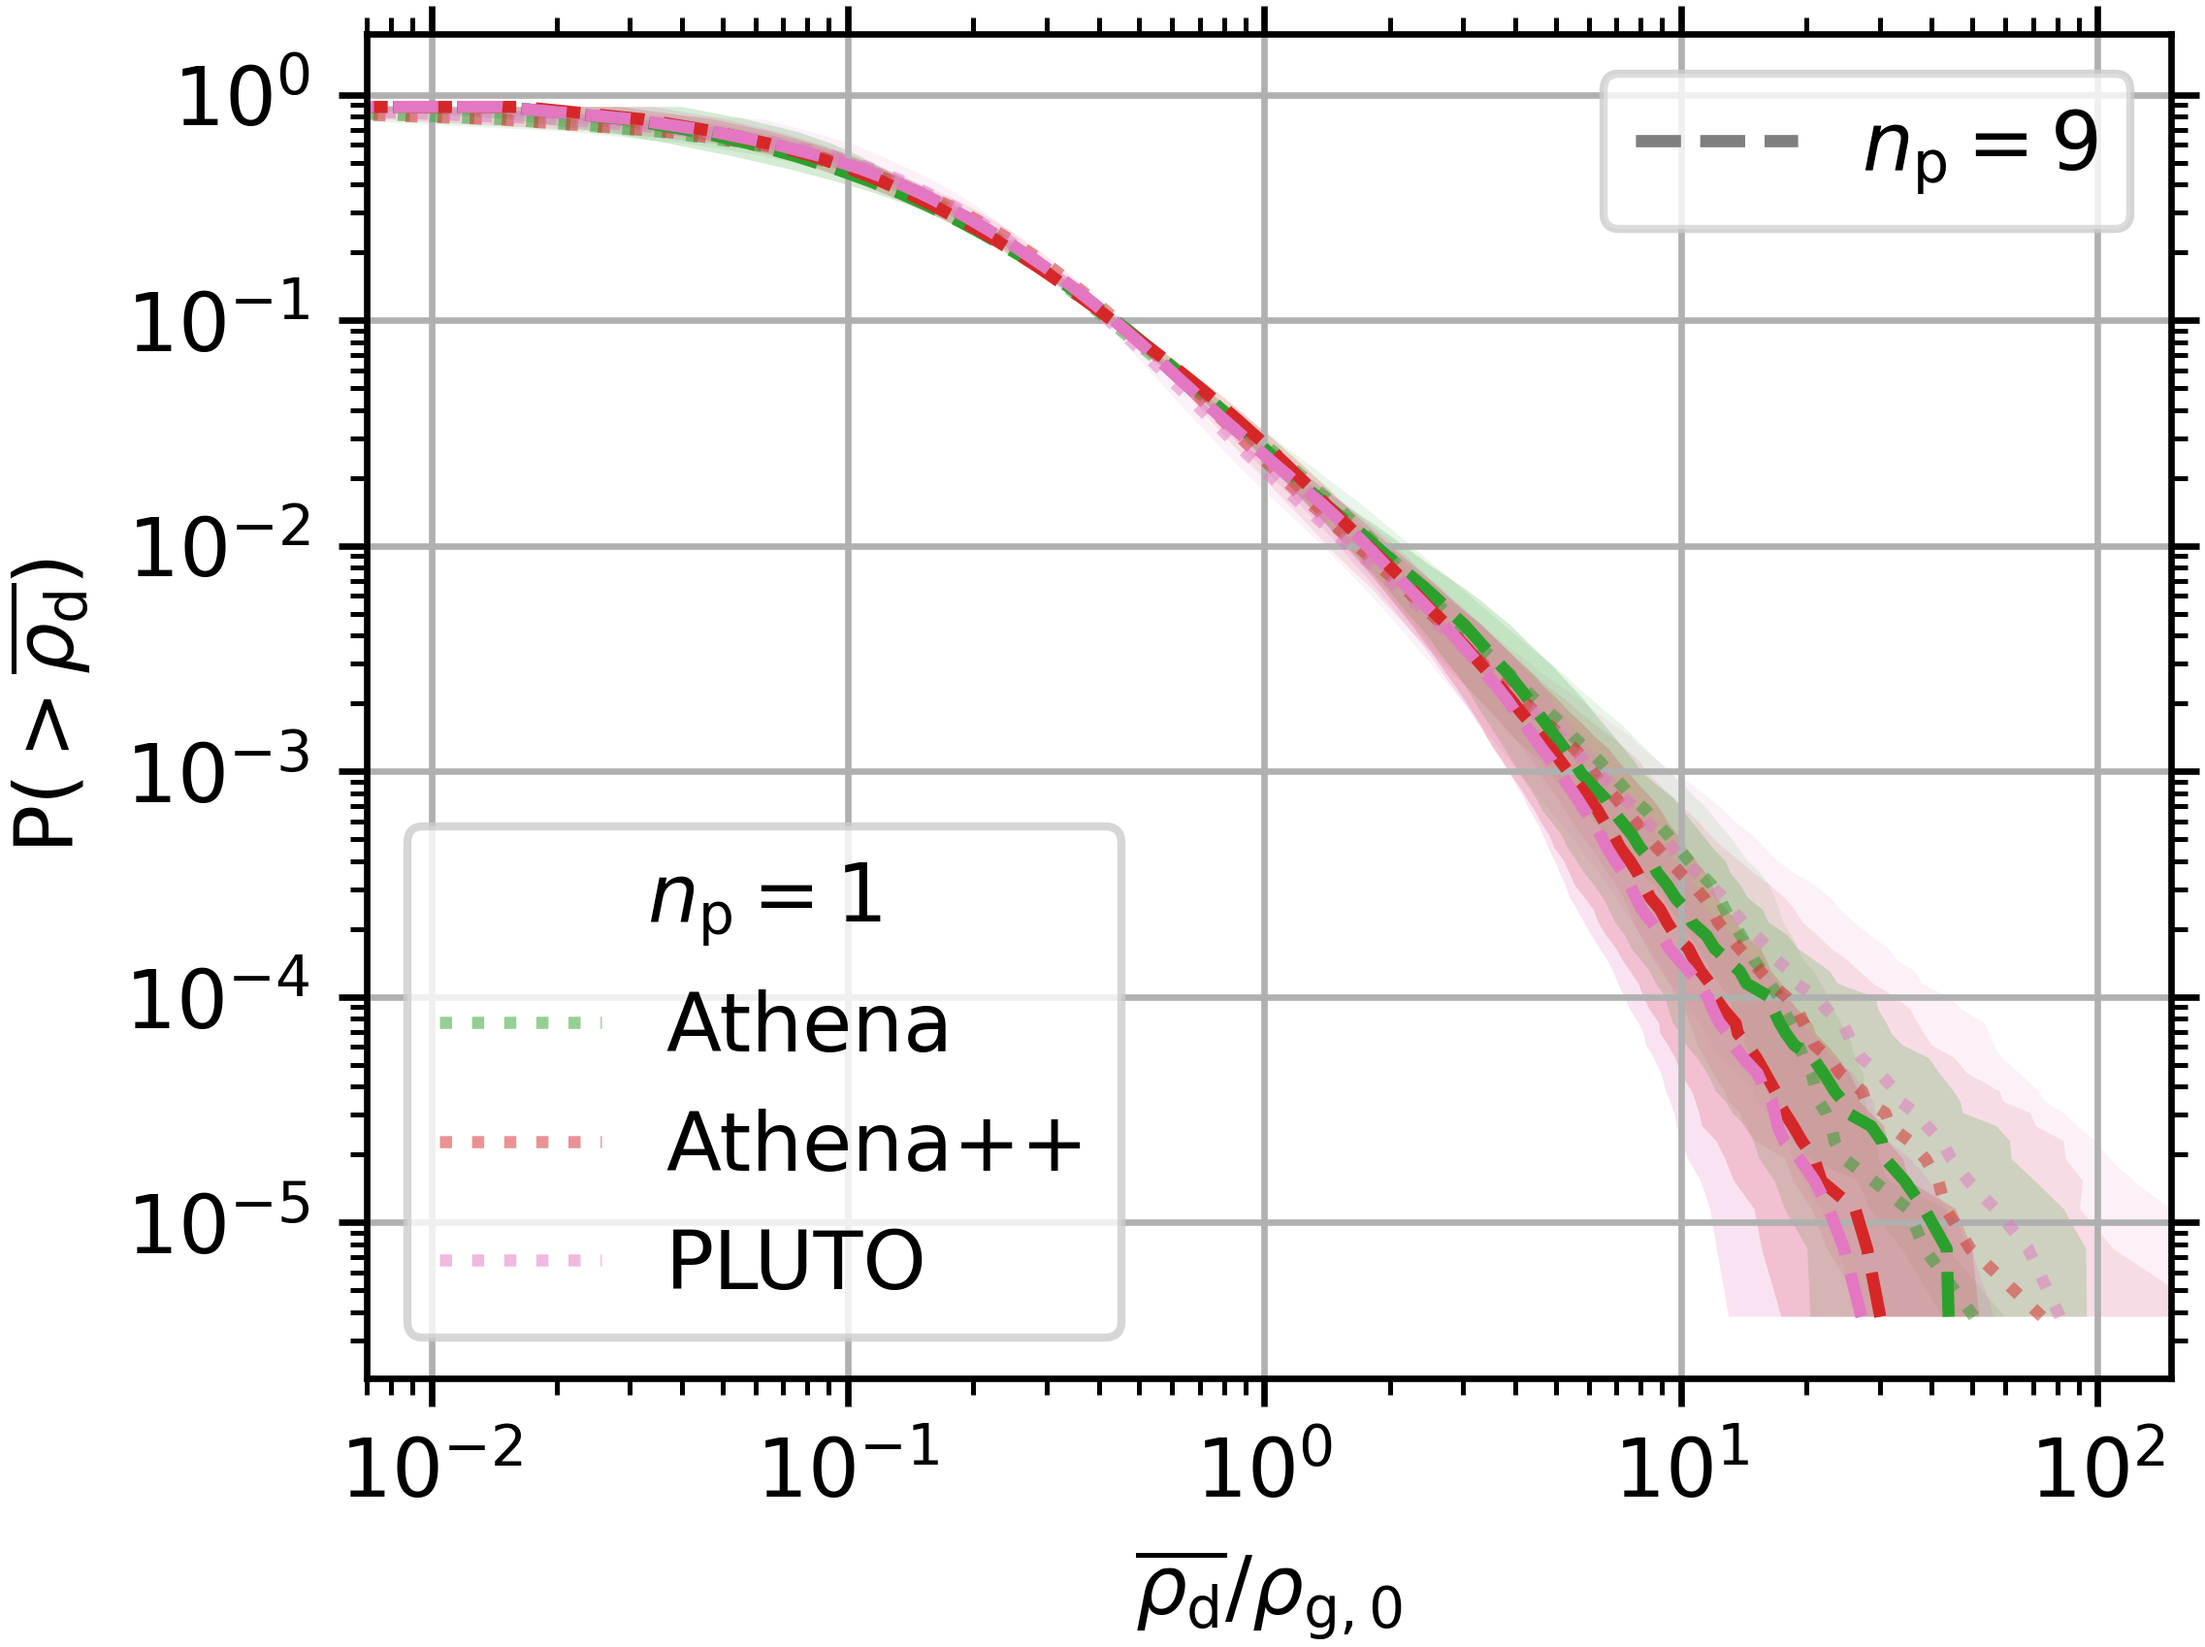
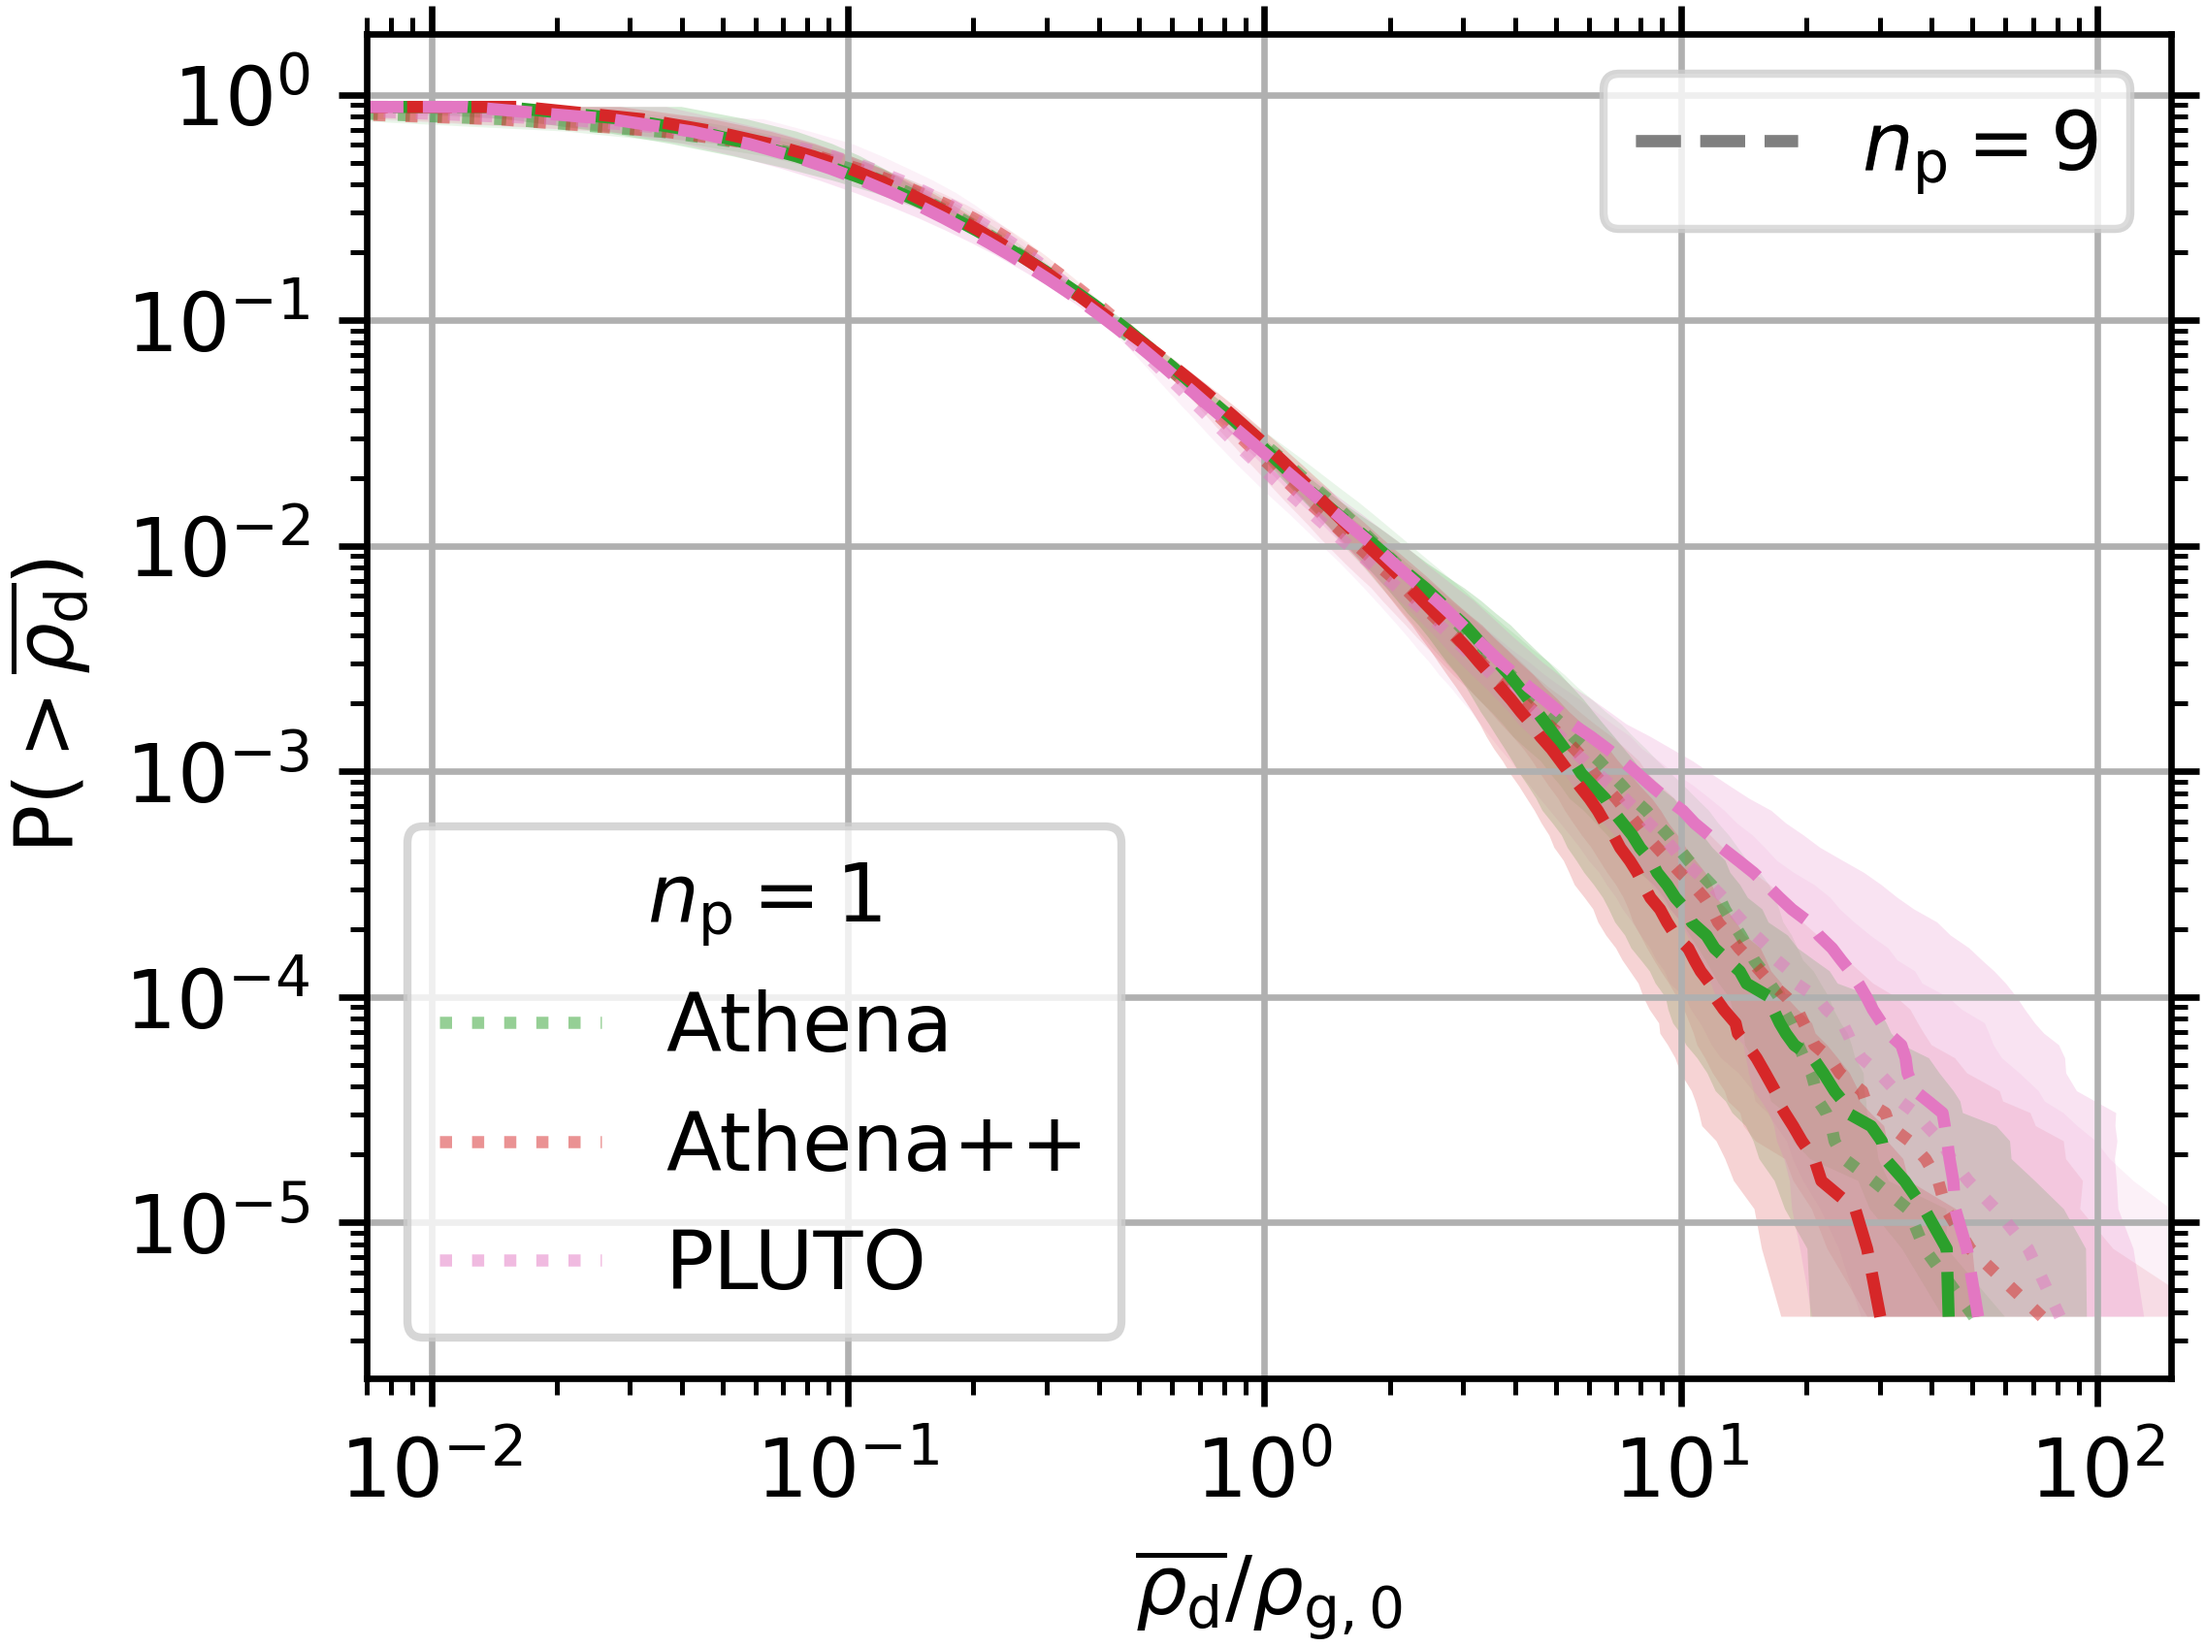
Update with latest Idefix and PLUTO (particle) runs

diff --git a/_research/05-code-comparison.md b/_research/05-code-comparison.md
@@ -55,7 +55,7 @@ Dust densities are relative to the initially uniform gas density $$\rho_\mathrm{
 Dotted lines show codes that implement an average of $$n_\mathrm{p} = 1$$ Lagrangian particle per grid cell, solid lines show codes with pressureless dust fluids, and line colors show different codes.
 
 
-##### Higher Particle Resolution
+##### Additional Particles
 
 ![](/assets/images/research/code-comparison/si/BA-512-np9_snapshots.png)
 **Figure 4.** Similar to Figure [1](#higher-particle-resolution:~:text=Permalink-,Figure%201.,-Dust%20density%20snapshots) except for only codes that implement an average of $$n_\mathrm{p} = 9$$ Lagrangian particles per grid cell.
@@ -72,7 +72,7 @@ Dotted lines show codes that implement an average of $$n_\mathrm{p} = 1$$ Lagran
 **Figure 7.** Similar to Figure [1](#higher-particle-resolution:~:text=Permalink-,Figure%201.,-Dust%20density%20snapshots) except at a grid resolution of 1024².
 
 ![](/assets/images/research/code-comparison/si/BA-1024_time_series.png)
-**Figure 8.** Similar to Figure [2](#higher-particle-resolution:~:text=.-,Figure%202.,-Maximum%20dust%20densities) but with dashed lines showing grid resolutions of 1024².
+**Figure 8.** Similar to Figure [2](#higher-particle-resolution:~:text=.-,Figure%202.,-Maximum%20dust%20densities) except with dashed lines showing grid resolutions of 1024².
 
 ![](/assets/images/research/code-comparison/si/BA-1024_CDF.png)
-**Figure 9.** Similar to Figure [3](#higher-particle-resolution:~:text=show%20different%20codes.-,Figure%203.,-Time%2Daveraged%20cumulative) but with dashed lines showing grid resolutions of 1024².
+**Figure 9.** Similar to Figure [3](#higher-particle-resolution:~:text=show%20different%20codes.-,Figure%203.,-Time%2Daveraged%20cumulative) except with dashed lines showing grid resolutions of 1024².
